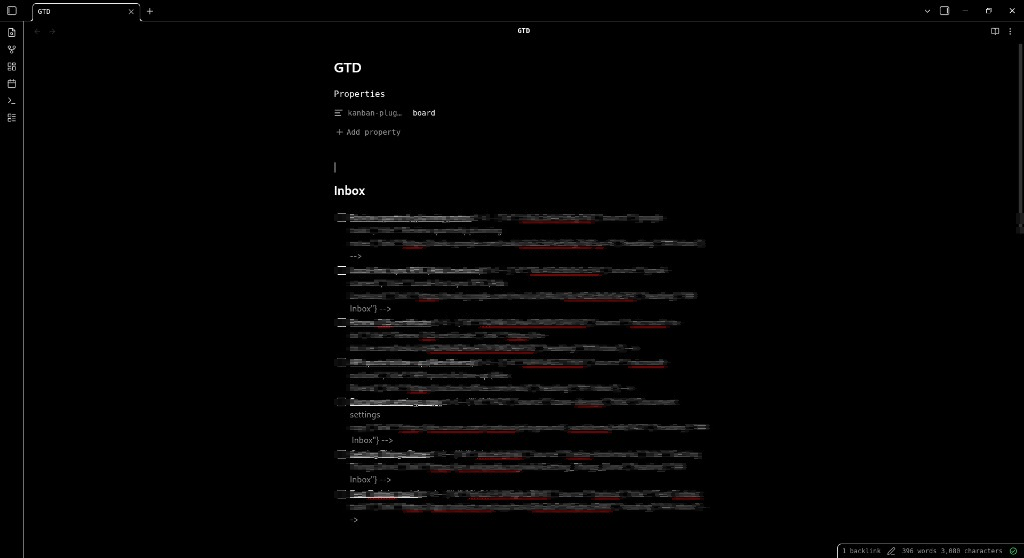
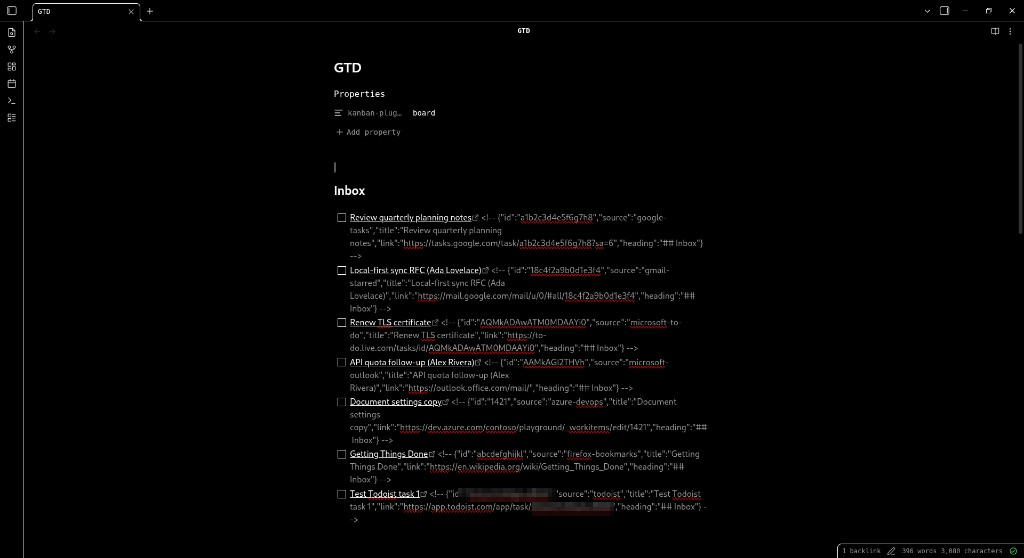
Add a mark-plus-word lockup and keep only the highest-value README shots.
The header and README now share one wordmark, the source screenshot is readable, and a public-site skill keeps homepage copy in lockstep with new integrations.

Changed region(s): [[0.3438, 0.3656, 0.6875, 0.7312], [0.3438, 0.7616, 0.6875, 0.9444]]

diff --git a/site/index.html b/site/index.html
@@ -37,8 +37,7 @@
     <header class="top">
       <div class="wrap">
         <a class="brand" href="/">
-          <img class="mark" src="favicon.svg" width="32" height="32" alt="" />
-          Syncer
+          <img class="lockup" src="lockup.svg" width="148" height="32" alt="Syncer" />
         </a>
         <nav aria-label="Site">
           <a href="/" aria-current="page">Home</a>
@@ -53,16 +52,7 @@
       <section class="wrap hero">
         <div>
           <p class="eyebrow">Obsidian community plugin</p>
-          <div class="hero-name">
-            <img
-              class="hero-logo"
-              src="logo.png"
-              width="512"
-              height="512"
-              alt="Syncer"
-            />
-            <h1>Syncer</h1>
-          </div>
+          <h1>Syncer</h1>
           <p class="app-name-line">Application name: Syncer</p>
           <p class="tagline">Your inboxes, one Markdown note.</p>
           <p class="lede">

diff --git a/site/styles.css b/site/styles.css
@@ -82,21 +82,19 @@ a:hover {
 .brand {
   display: inline-flex;
   align-items: center;
-  gap: 0.7rem;
   color: var(--ink);
   text-decoration: none;
-  font-weight: 650;
-  letter-spacing: 0.01em;
 }
 
 .brand:hover {
   color: var(--ink);
+  opacity: 0.88;
 }
 
-.mark {
-  width: 1.85rem;
-  height: 1.85rem;
+.lockup {
   display: block;
+  height: 2rem;
+  width: auto;
 }
 
 nav {
@@ -134,22 +132,8 @@ nav a[aria-current="page"] {
   text-transform: uppercase;
 }
 
-.hero-name {
-  display: flex;
-  align-items: center;
-  gap: 0.9rem;
-  margin-bottom: 0.85rem;
-}
-
-.hero-logo {
-  width: 4.25rem;
-  height: 4.25rem;
-  border-radius: 1rem;
-  flex-shrink: 0;
-}
-
 h1 {
-  margin: 0;
+  margin: 0 0 0.85rem;
   font-size: clamp(2.6rem, 5vw, 4.2rem);
   line-height: 1.05;
   letter-spacing: -0.035em;

diff --git a/site/privacy.html b/site/privacy.html
@@ -16,8 +16,7 @@
     <header class="top">
       <div class="wrap">
         <a class="brand" href="/">
-          <img class="mark" src="favicon.svg" width="32" height="32" alt="" />
-          Syncer
+          <img class="lockup" src="lockup.svg" width="148" height="32" alt="Syncer" />
         </a>
         <nav aria-label="Site">
           <a href="/">Home</a>

diff --git a/site/terms.html b/site/terms.html
@@ -16,8 +16,7 @@
     <header class="top">
       <div class="wrap">
         <a class="brand" href="/">
-          <img class="mark" src="favicon.svg" width="32" height="32" alt="" />
-          Syncer
+          <img class="lockup" src="lockup.svg" width="148" height="32" alt="Syncer" />
         </a>
         <nav aria-label="Site">
           <a href="/">Home</a>

diff --git a/.cursor/skills/update-public-site/SKILL.md b/.cursor/skills/update-public-site/SKILL.md
@@ -1,0 +1,64 @@
+---
+name: update-public-site
+description: Keep the Syncer homepage, Privacy, Terms, README marketing copy, manifest description, and screenshots aligned with shipped integrations. Use when adding, removing, or renaming a sync source; changing OAuth, privacy, or write-back behaviour; editing site/; or replacing plugin screenshots.
+---
+
+# Update public site
+
+Run in the **same task** as the product change. GitHub Pages deploys [`site/`](site/) from `main` when `site/**` changes.
+
+## When
+
+| Change | Update |
+| --- | --- |
+| New / renamed / removed source | Source lists everywhere (below) |
+| New OAuth provider, scopes, PAT, or filesystem access | [`site/privacy.html`](site/privacy.html), [`site/terms.html`](site/terms.html), README Privacy section, [`SECURITY.md`](SECURITY.md) |
+| Google Tasks / Gmail data use | Homepage Google section **and** Privacy — do not paraphrase away required wording |
+| Settings UI or Kanban result looks different | Screenshots (below) |
+| Tagline / what the plugin is | Homepage, README intro, `manifest.json` / `package.json` `description` |
+
+Skip for test-only, formatting, or internal-only refactors.
+
+## Source lists (keep in lockstep)
+
+Same set of integrations, same names, in all of:
+
+- [`site/index.html`](site/index.html) — meta description, JSON-LD, hero lede, **What Syncer syncs** cards
+- [`site/privacy.html`](site/privacy.html) / [`site/terms.html`](site/terms.html) — who is contacted
+- [`README.md`](README.md) — intro, Features, Configuration, Privacy hosts
+- [`manifest.json`](manifest.json) and [`package.json`](package.json) `description` (Community listing uses the manifest)
+
+One-line cards on the homepage: what is synced, not how OAuth works.
+
+## Google branding copy
+
+Google’s verification crawler matches exact homepage wording. Do **not** “improve” or shorten:
+
+- The purpose sentences that contain **“The purpose of Syncer is”**
+- The **Application name: Syncer** line and `<h1>Syncer</h1>`
+- The claim that Google APIs are used **only** for Google Tasks and Gmail Starred
+- The Limited Use sentence in Privacy
+
+Add a new Google integration only by extending the existing Google data-use list with the same factual style. If unsure, leave that prose and ask.
+
+## Brand lockup
+
+- Mark only: [`site/favicon.svg`](site/favicon.svg) (tab icon) and [`site/logo.png`](site/logo.png) (512²).
+- Word + mark: [`site/lockup.svg`](site/lockup.svg) in the site header (transparent; do not put `logo.png` in the hero). [`site/lockup.png`](site/lockup.png) at the top of the README (dark plate so it holds on GitHub light and dark).
+- Homepage must still show a visible `<h1>Syncer</h1>` and **Application name: Syncer** for Google.
+
+## Screenshots
+
+Files: [`screenshots/`](screenshots/) (README + Community) and [`site/screenshot.png`](site/screenshot.png) (homepage hero).
+
+- Community desktop: JPEG/PNG/WebP, **1200×800** (3:2), max 5 MB, max 5 shots. Plugin is desktop-only — skip mobile.
+- Do not publish vault name, personal emails, PATs, or live account URLs. Stage a sanitised `GTD.md`; **disable Syncer** while editing it so reconcile does not restore real items.
+- README only: Kanban close-up, then Markdown source. Keep the other files in `screenshots/` for Community; do not dump the full set in the README.
+- After replacing shots, point README at those two files and match `site/index.html` `<img>` width/height to the hero PNG (same crop as the close-up).
+- Community uploads are manual at community.obsidian.md (not git).
+
+## Done when
+
+- Source names match `SyncSource` in [`src/sync/types.ts`](src/sync/types.ts)
+- Privacy still says there is no Syncer backend
+- No drive-by rewrite of unrelated homepage or legal prose

diff --git a/.cursor/skills/sync-feature/SKILL.md b/.cursor/skills/sync-feature/SKILL.md
@@ -17,6 +17,7 @@ Work top-down through the layers that need changes:
 6. **Plugin wire-up** — register job in `src/plugin/index.ts` inside SyncGuard like existing jobs
 7. **Settings UI** — `settings-tab.ts` + `plugin/schemas.ts` / types
 8. **Tests** — unit for pure map/schema/actions; integration for job/service/auth with mocks under `tests/{unit,integration}/…`
+9. **Public copy** — apply [`update-public-site`](../update-public-site/SKILL.md) (homepage, Privacy/Terms, README, manifest description, screenshots if the UI changed)
 
 ## Rules
 
@@ -24,6 +25,7 @@ Work top-down through the layers that need changes:
 - Document new product rules in [`docs/kb/sync-semantics.md`](docs/kb/sync-semantics.md)
 - Note new modules/wiring in [`docs/kb/architecture.md`](docs/kb/architecture.md)
 - New client IDs or env injects → `esbuild.config.mjs`, README, and [`docs/kb/gotchas.md`](docs/kb/gotchas.md)
+- Do not ship a new source with stale `site/` or README source lists
 
 ## Reference implementations
 

diff --git a/README.md b/README.md
@@ -1,4 +1,6 @@
-# Syncer
+<h1 align="center">
+  <img src="site/lockup.png" alt="Syncer" width="280">
+</h1>
 
 Obsidian plugin to sync references/links to Google Tasks, Gmail Starred, Microsoft To Do, Microsoft Outlook, Azure DevOps, Firefox Bookmarks, and Todoist into your vault.
 
@@ -8,15 +10,7 @@ This plugin fetches data from external sources and syncs references/links to the
 
 [![Screenshot of Syncer plugin](screenshots/gtd-kanban-closeup.png)](screenshots/gtd-kanban-closeup.png)
 
-![Full GTD Kanban board](screenshots/gtd-kanban-example.png)
-
-![Command palette showing Syncer: Manual sync](screenshots/command-palette-manual-sync.png)
-
 ![Markdown source of synced Inbox items](screenshots/markdown-source-inbox.png)
-
-![Syncer settings with a connected Todoist account](screenshots/settings-todoist.png)
-
-![Syncer settings with a connected Microsoft To Do account](screenshots/settings-microsoft-to-do.png)
 
 ## Features
 

diff --git a/.cursor/skills/update-knowledge-base/SKILL.md b/.cursor/skills/update-knowledge-base/SKILL.md
@@ -28,6 +28,7 @@ Skip for pure formatting, typo-only, or test-only changes that do not alter prod
 | Naming, Zod, errors, layering norms                            | [`docs/kb/conventions.md`](docs/kb/conventions.md)       |
 | Env, auth traps, known footguns                                | [`docs/kb/gotchas.md`](docs/kb/gotchas.md)               |
 | Index / update policy                                          | [`docs/kb/README.md`](docs/kb/README.md)                 |
+| Homepage, Privacy/Terms, README source lists, screenshots      | [`update-public-site`](../update-public-site/SKILL.md) — not KB |
 
 Backlog items live in GitHub issues. Mention in `gotchas.md` only when they actively trip agents.
 

diff --git a/docs/kb/README.md b/docs/kb/README.md
@@ -28,5 +28,6 @@ Treat KB updates as part of the same task when behavior changes:
 | Footgun / env / known trap         | `gotchas.md`                     |
 | Delivery / issue / release process | `checklists.md`                  |
 | Test layout change                 | [docs/testing.md](../testing.md) |
+| Public homepage / legal / screenshots | not KB — [`update-public-site`](../../.cursor/skills/update-public-site/SKILL.md) |
 
 **Sizing:** keep each page under ~80 lines. Never invent features — cite paths. Use the [`update-knowledge-base`](../../.cursor/skills/update-knowledge-base/SKILL.md) project skill after meaningful code changes.

diff --git a/docs/kb/checklists.md b/docs/kb/checklists.md
@@ -27,6 +27,7 @@ For each new source integration:
 - `plugin/`: settings UI wiring and notices
 - tests: unit coverage for mapping/parsing + integration coverage for job sync path
 - docs: update `sync-semantics.md` and any changed `gotchas.md`/`architecture.md`
+- public copy: homepage source cards, Privacy/Terms, README, `manifest.json` description — see [`update-public-site`](../../.cursor/skills/update-public-site/SKILL.md)
 
 ## Release smoke checks
 
